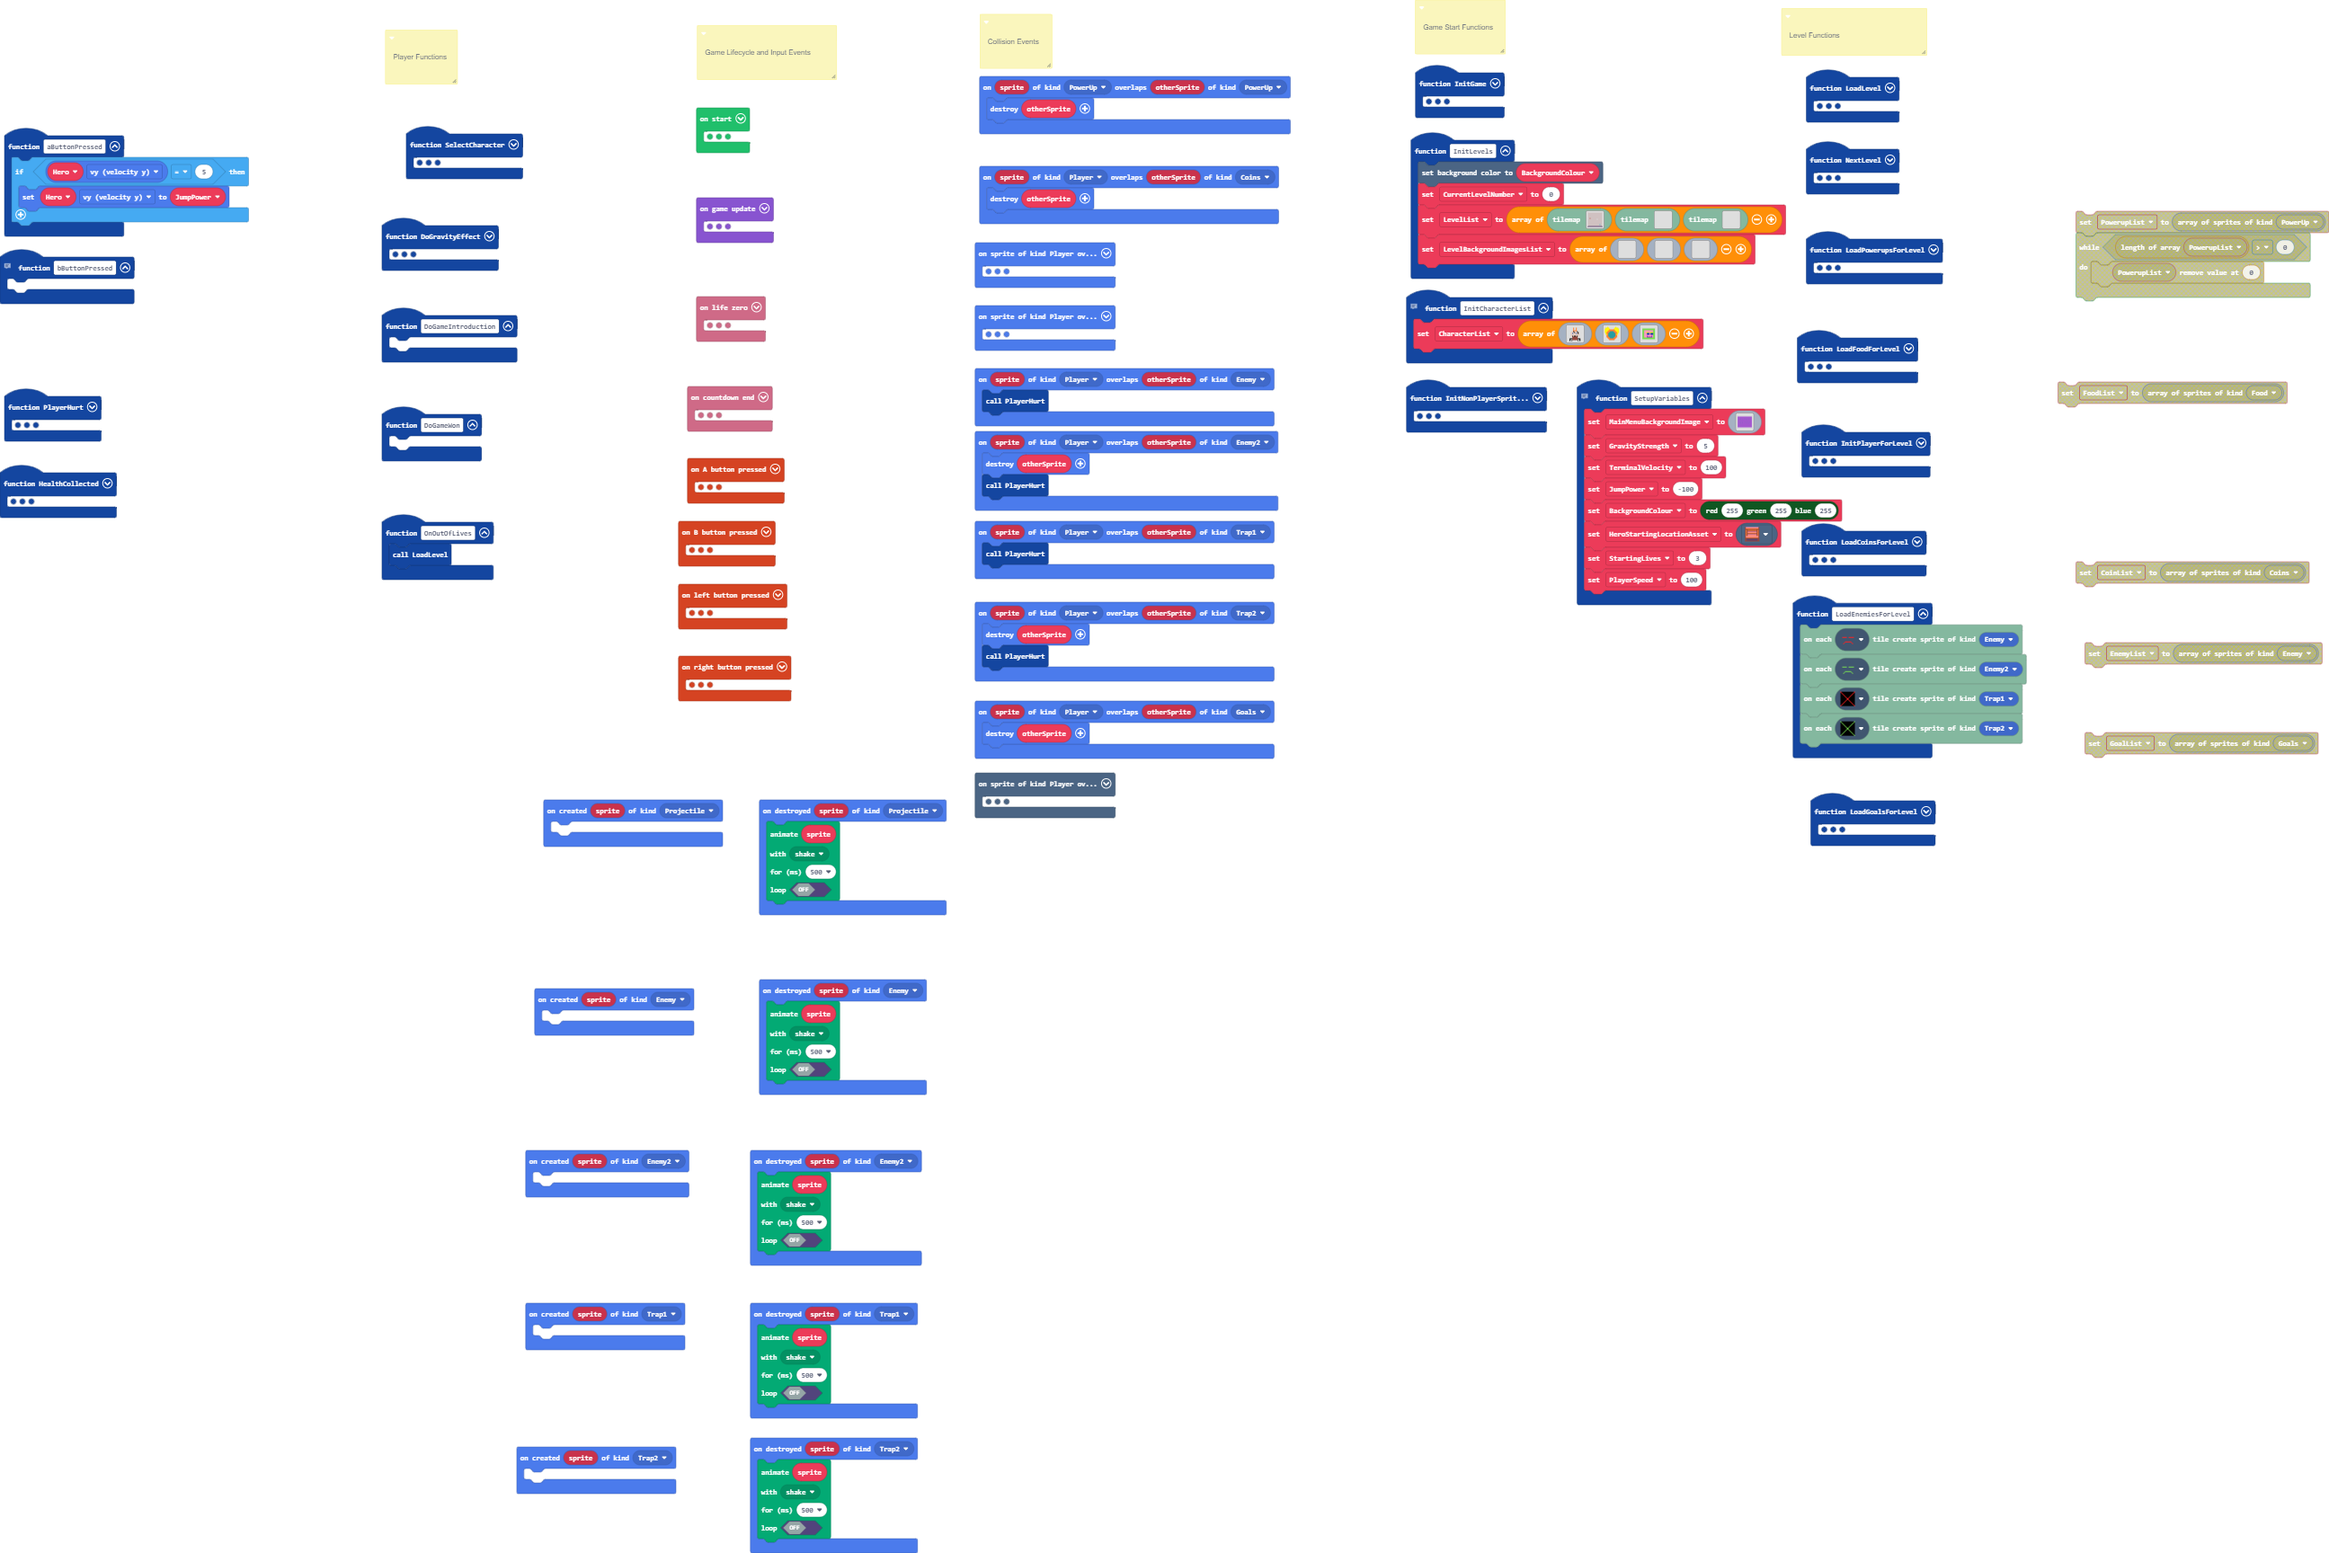
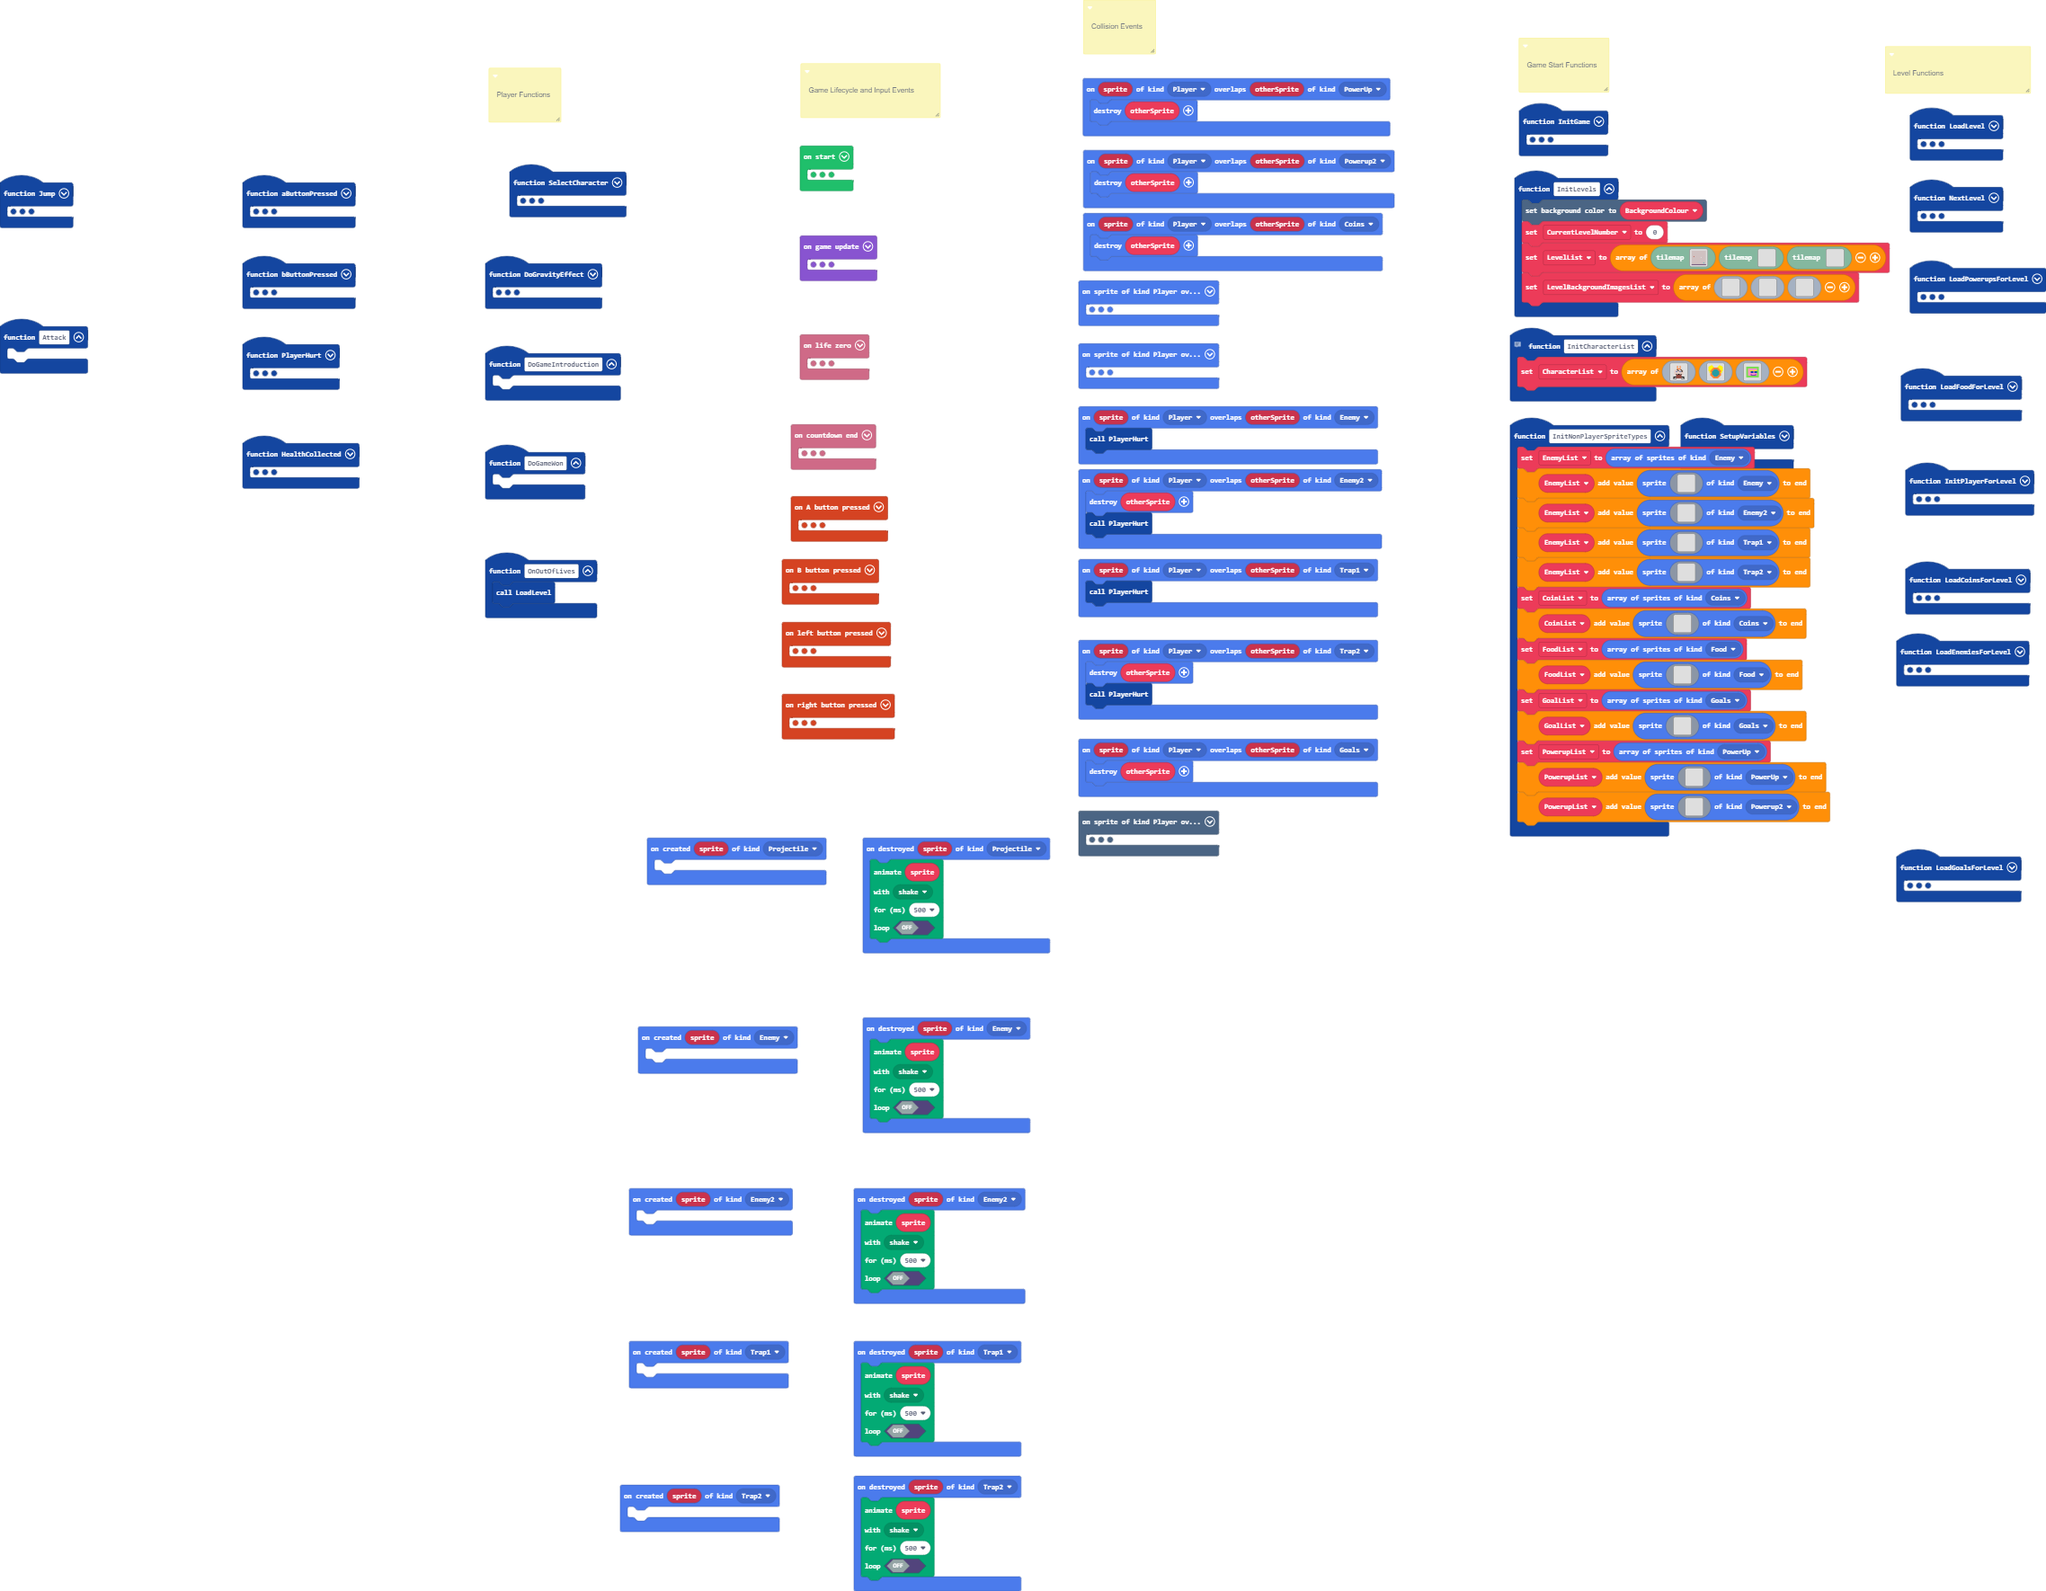
Now there are two types of powerup, and I fixed the initial non-player sprite setup function

Changed region(s): [[0.0, 0.0, 1.0, 1.0], [0.9047, 0.5312, 0.9982, 0.5938]]

diff --git a/main.ts b/main.ts
@@ -7,7 +7,11 @@ namespace SpriteKind {
     export const Trap1 = SpriteKind.create()
     export const Trap2 = SpriteKind.create()
     export const Enemy2 = SpriteKind.create()
+    export const Powerup2 = SpriteKind.create()
 }
+/**
+ * Collision Events
+ */
 /**
  * Player Functions
  */
@@ -22,6 +26,9 @@ sprites.onCreated(SpriteKind.Enemy, function (sprite) {
 })
 // Level Functions
 function bButtonPressed () {
+    Attack()
+}
+function Attack () {
 	
 }
 // Level Initializations
@@ -48,9 +55,7 @@ function PlayerHurt () {
     Hero.setFlag(SpriteFlag.GhostThroughSprites, true)
 }
 function aButtonPressed () {
-    if (Hero.vy == 5) {
-        Hero.vy = JumpPower
-    }
+    Jump()
 }
 function InitPlayerForLevel () {
     tiles.placeOnRandomTile(Hero, HeroStartingLocationAsset)
@@ -424,12 +429,6 @@ function InitLevels () {
         ................................................................................................................................................................
         `]
 }
-/**
- * Collision Events
- */
-sprites.onOverlap(SpriteKind.PowerUp, SpriteKind.PowerUp, function (sprite, otherSprite) {
-    otherSprite.destroy()
-})
 function LoadGoalsForLevel () {
     tiles.createSpritesOnTiles(assets.tile`GoalLocationTile`, SpriteKind.Goals)
 }
@@ -587,6 +586,9 @@ function LoadLevel () {
         LoadGoalsForLevel()
     }
 }
+sprites.onOverlap(SpriteKind.Player, SpriteKind.Powerup2, function (sprite, otherSprite) {
+    otherSprite.destroy()
+})
 controller.left.onEvent(ControllerButtonEvent.Pressed, function () {
     if (HeroCharacterSelected == false) {
         if (SelectedHeroIndex == 1) {
@@ -600,12 +602,16 @@ controller.left.onEvent(ControllerButtonEvent.Pressed, function () {
         }
     }
 })
+sprites.onOverlap(SpriteKind.Player, SpriteKind.PowerUp, function (sprite, otherSprite) {
+    otherSprite.destroy()
+})
 sprites.onOverlap(SpriteKind.Player, SpriteKind.Trap2, function (sprite, otherSprite) {
     otherSprite.destroy()
     PlayerHurt()
 })
 function LoadPowerupsForLevel () {
-    tiles.createSpritesOnTiles(assets.tile`PowerupStartingLocation`, SpriteKind.PowerUp)
+    tiles.createSpritesOnTiles(assets.tile`Powerup1Location`, SpriteKind.PowerUp)
+    tiles.createSpritesOnTiles(assets.tile`Powerup2Location`, SpriteKind.Powerup2)
 }
 sprites.onCreated(SpriteKind.Enemy2, function (sprite) {
 	
@@ -615,6 +621,21 @@ info.onCountdownEnd(function () {
 })
 function LoadCoinsForLevel () {
     tiles.createSpritesOnTiles(assets.tile`CoinStartingLocation`, SpriteKind.Coins)
+}
+function Jump () {
+    if (Hero.isHittingTile(CollisionDirection.Bottom)) {
+        HasDoubleJumped = false
+        Hero.vy = JumpPower
+    } else if (Hero.isHittingTile(CollisionDirection.Left)) {
+        Hero.vy = JumpPower
+    } else if (Hero.isHittingTile(CollisionDirection.Right)) {
+        Hero.vy = JumpPower
+    } else if (!(HasDoubleJumped)) {
+        Hero.vy = JumpPower
+        HasDoubleJumped = true
+    } else {
+    	
+    }
 }
 sprites.onDestroyed(SpriteKind.Enemy2, function (sprite) {
     animation.runMovementAnimation(
@@ -838,8 +859,8 @@ function SetupVariables () {
         aaaaaaaaaaaaaaaaaaaaaaaaaaaaaaaaaaaaaaaaaaaaaaaaaaaaaaaaaaaaaaaaaaaaaaaaaaaaaaaaaaaaaaaaaaaaaaaaaaaaaaaaaaaaaaaaaaaaaaaaaaaaaaaaaaaaaaaaaaaaaaaaaaaaaaaaaaaaaaaa
         `
     GravityStrength = 5
-    TerminalVelocity = 100
-    JumpPower = -100
+    TerminalVelocity = 150
+    JumpPower = -150
     BackgroundColour = color.__rgb(255, 255, 255)
     HeroStartingLocationAsset = sprites.dungeon.stairLadder
     StartingLives = 3
@@ -920,7 +941,7 @@ function InitNonPlayerSpriteTypes () {
         . . . . . . . . . . . . . . . . 
         `, SpriteKind.Trap2))
     CoinList = sprites.allOfKind(SpriteKind.Coins)
-    EnemyList.push(sprites.create(img`
+    CoinList.push(sprites.create(img`
         . . . . . . . . . . . . . . . . 
         . . . . . . . . . . . . . . . . 
         . . . . . . . . . . . . . . . . 
@@ -939,7 +960,7 @@ function InitNonPlayerSpriteTypes () {
         . . . . . . . . . . . . . . . . 
         `, SpriteKind.Coins))
     FoodList = sprites.allOfKind(SpriteKind.Food)
-    EnemyList.push(sprites.create(img`
+    FoodList.push(sprites.create(img`
         . . . . . . . . . . . . . . . . 
         . . . . . . . . . . . . . . . . 
         . . . . . . . . . . . . . . . . 
@@ -958,7 +979,7 @@ function InitNonPlayerSpriteTypes () {
         . . . . . . . . . . . . . . . . 
         `, SpriteKind.Food))
     GoalList = sprites.allOfKind(SpriteKind.Goals)
-    EnemyList.push(sprites.create(img`
+    GoalList.push(sprites.create(img`
         . . . . . . . . . . . . . . . . 
         . . . . . . . . . . . . . . . . 
         . . . . . . . . . . . . . . . . 
@@ -977,7 +998,7 @@ function InitNonPlayerSpriteTypes () {
         . . . . . . . . . . . . . . . . 
         `, SpriteKind.Goals))
     PowerupList = sprites.allOfKind(SpriteKind.PowerUp)
-    EnemyList.push(sprites.create(img`
+    PowerupList.push(sprites.create(img`
         . . . . . . . . . . . . . . . . 
         . . . . . . . . . . . . . . . . 
         . . . . . . . . . . . . . . . . 
@@ -995,6 +1016,24 @@ function InitNonPlayerSpriteTypes () {
         . . . . . . . . . . . . . . . . 
         . . . . . . . . . . . . . . . . 
         `, SpriteKind.PowerUp))
+    PowerupList.push(sprites.create(img`
+        . . . . . . . . . . . . . . . . 
+        . . . . . . . . . . . . . . . . 
+        . . . . . . . . . . . . . . . . 
+        . . . . . . . . . . . . . . . . 
+        . . . . . . . . . . . . . . . . 
+        . . . . . . . . . . . . . . . . 
+        . . . . . . . . . . . . . . . . 
+        . . . . . . . . . . . . . . . . 
+        . . . . . . . . . . . . . . . . 
+        . . . . . . . . . . . . . . . . 
+        . . . . . . . . . . . . . . . . 
+        . . . . . . . . . . . . . . . . 
+        . . . . . . . . . . . . . . . . 
+        . . . . . . . . . . . . . . . . 
+        . . . . . . . . . . . . . . . . 
+        . . . . . . . . . . . . . . . . 
+        `, SpriteKind.Powerup2))
 }
 sprites.onOverlap(SpriteKind.Player, SpriteKind.Coins, function (sprite, otherSprite) {
     otherSprite.destroy()
@@ -1046,6 +1085,8 @@ let PlayerSpeed = 0
 let MainMenuBackgroundImage: Image = null
 let GravityStrength = 0
 let TerminalVelocity = 0
+let JumpPower = 0
+let HasDoubleJumped = false
 let SelectedHeroIndex = 0
 let HeroCharacterSelected = false
 let LevelBackgroundImagesList: Image[] = []
@@ -1053,7 +1094,6 @@ let LevelList: tiles.WorldMap[] = []
 let CurrentLevelNumber = 0
 let BackgroundColour = 0
 let HeroStartingLocationAsset: Image = null
-let JumpPower = 0
 let Hero: Sprite = null
 let CharacterList: Image[] = []
 InitGame()

diff --git a/tilemap.g.ts b/tilemap.g.ts
@@ -9,8 +9,6 @@ namespace myTiles {
     //% fixedInstance jres blockIdentity=images._tile
     export const tile5 = image.ofBuffer(hex``);
     //% fixedInstance jres blockIdentity=images._tile
-    export const tile6 = image.ofBuffer(hex``);
-    //% fixedInstance jres blockIdentity=images._tile
     export const tile4 = image.ofBuffer(hex``);
     //% fixedInstance jres blockIdentity=images._tile
     export const tile2 = image.ofBuffer(hex``);
@@ -18,6 +16,10 @@ namespace myTiles {
     export const tile7 = image.ofBuffer(hex``);
     //% fixedInstance jres blockIdentity=images._tile
     export const tile8 = image.ofBuffer(hex``);
+    //% fixedInstance jres blockIdentity=images._tile
+    export const tile6 = image.ofBuffer(hex``);
+    //% fixedInstance jres blockIdentity=images._tile
+    export const tile9 = image.ofBuffer(hex``);
 
     helpers._registerFactory("tilemap", function(name: string) {
         switch(helpers.stringTrim(name)) {
@@ -527,8 +529,6 @@ namespace myTiles {
             case "tile3":return tile3;
             case "GoalLocationTile":
             case "tile5":return tile5;
-            case "PowerupStartingLocation":
-            case "tile6":return tile6;
             case "Enemy1StartingLocation":
             case "tile4":return tile4;
             case "Trap1Location":
@@ -537,6 +537,10 @@ namespace myTiles {
             case "tile7":return tile7;
             case "Enemy2StartingLocation":
             case "tile8":return tile8;
+            case "Powerup1Location":
+            case "tile6":return tile6;
+            case "Powerup2Location":
+            case "tile9":return tile9;
         }
         return null;
     })
